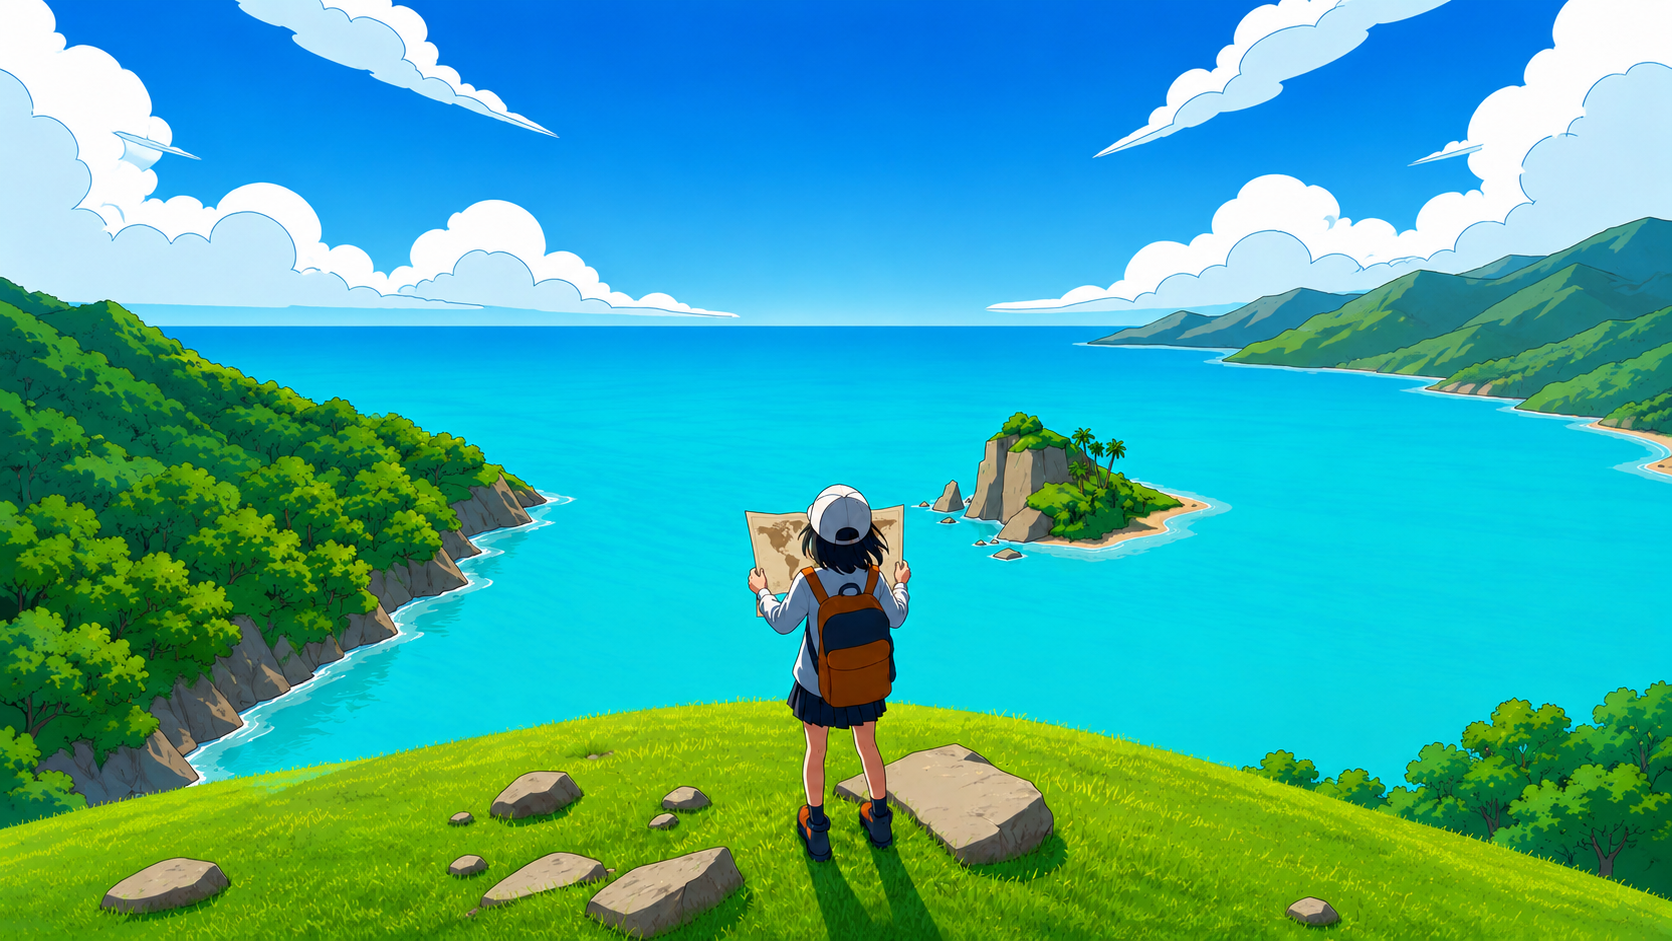
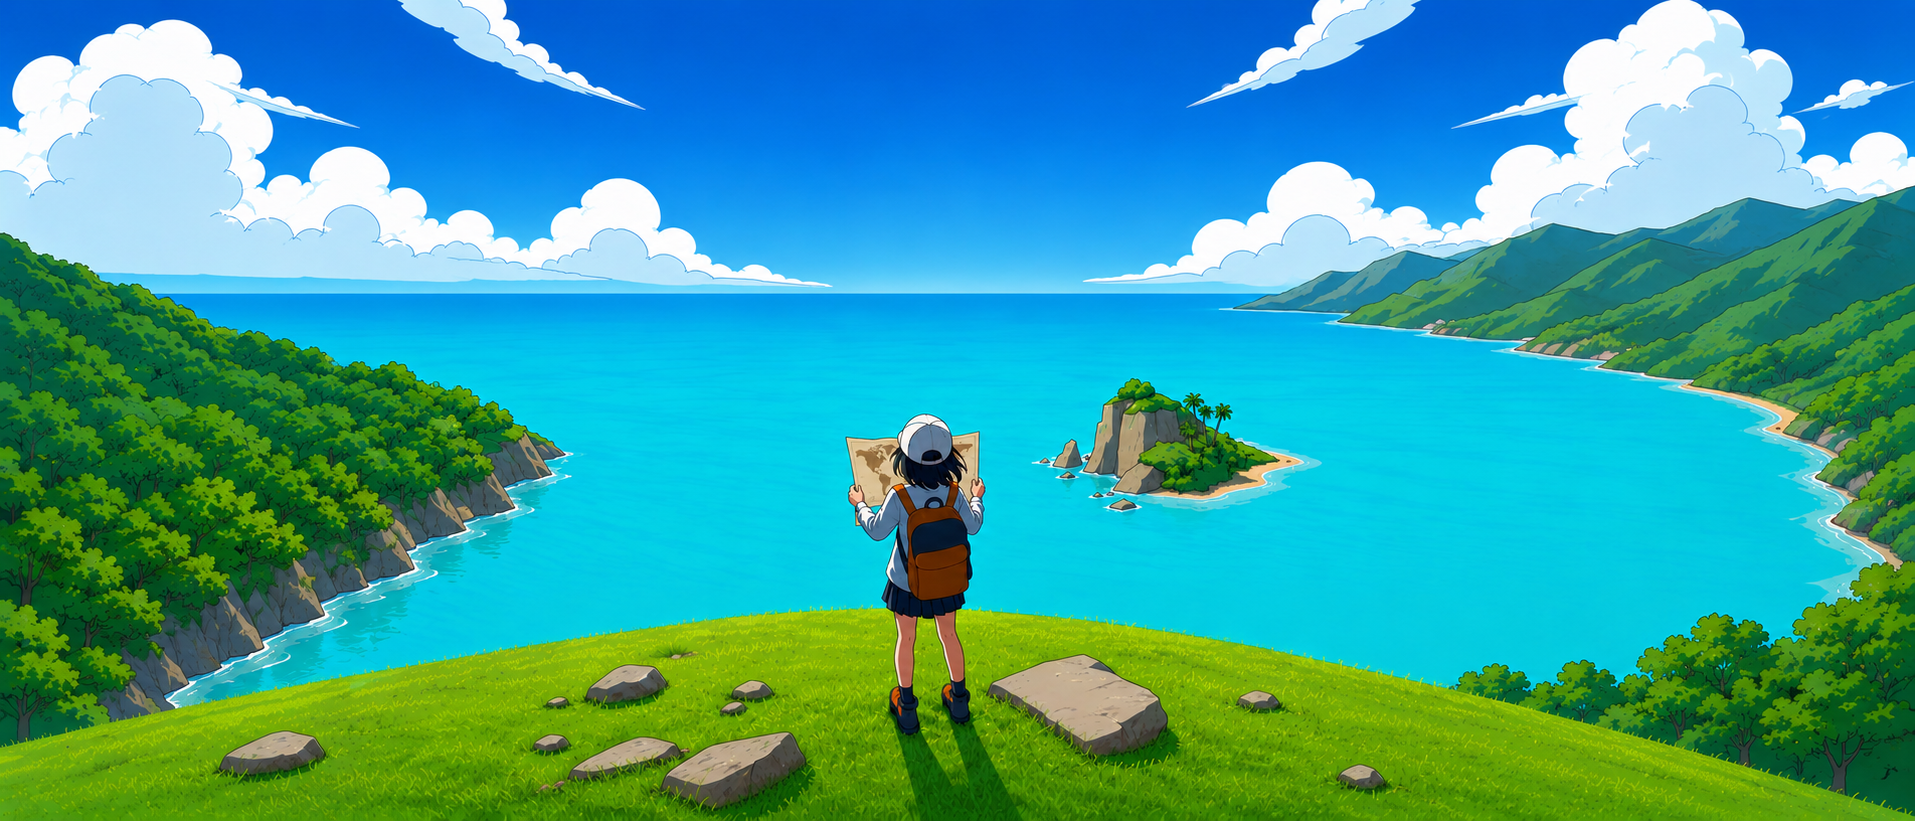
chore(ui): 첫 화면 배경 이미지를 더 넓은 버전으로 교체
- welcome-bg.png를 1915x821 버전으로 교체
- next/image width/height·sizes를 새 치수에 맞게 갱신

diff --git a/frontend/app/page.tsx b/frontend/app/page.tsx
@@ -17,10 +17,10 @@ export default function WelcomePage() {
         <Image
           src="/welcome-bg.png"
           alt=""
-          width={1672}
-          height={941}
+          width={1915}
+          height={821}
           priority
-          sizes="1672px"
+          sizes="1915px"
           className="absolute left-1/2 top-0 h-full w-auto max-w-none -translate-x-1/2"
         />
         {/* 상단 스크림 — 헤드라인 가독성 */}
